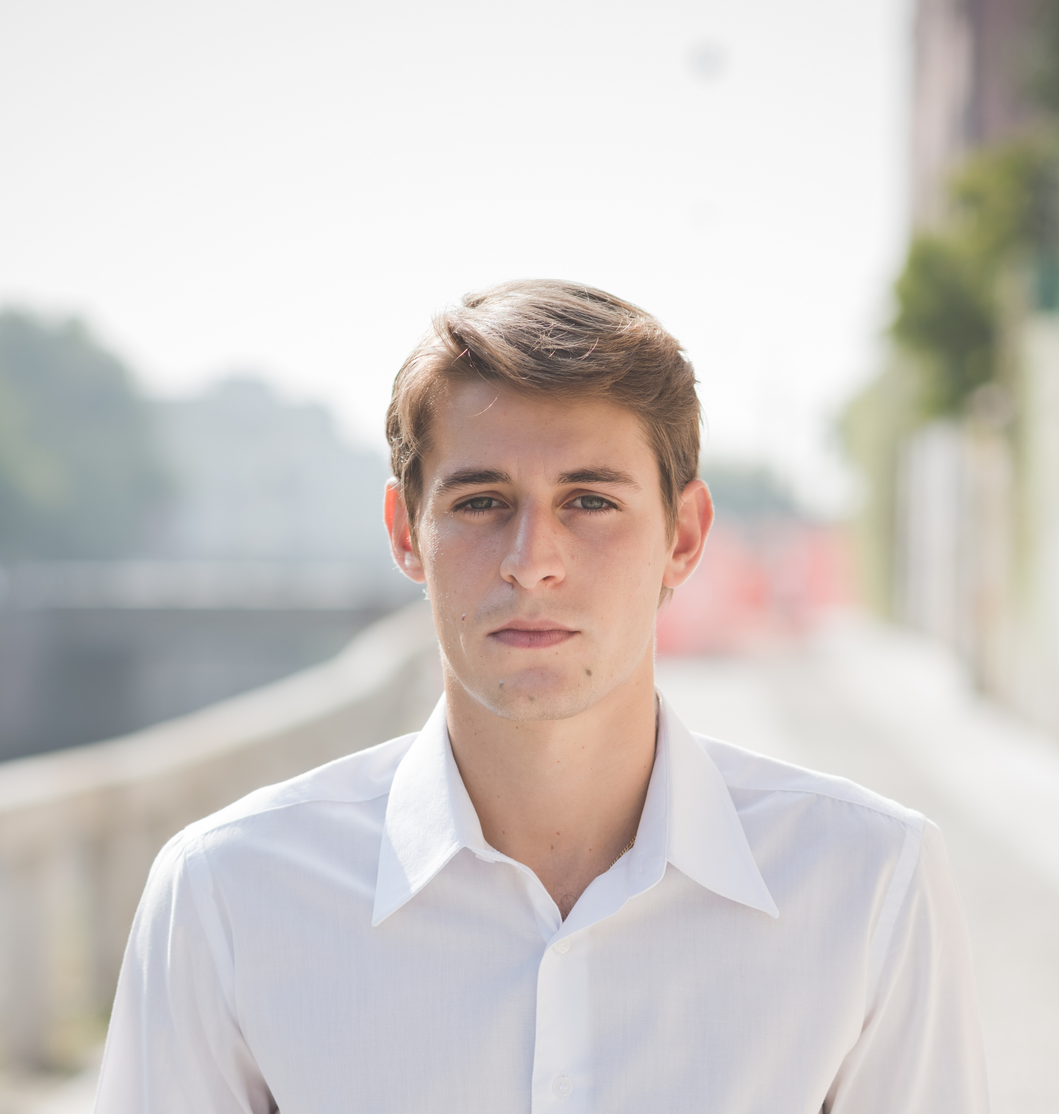
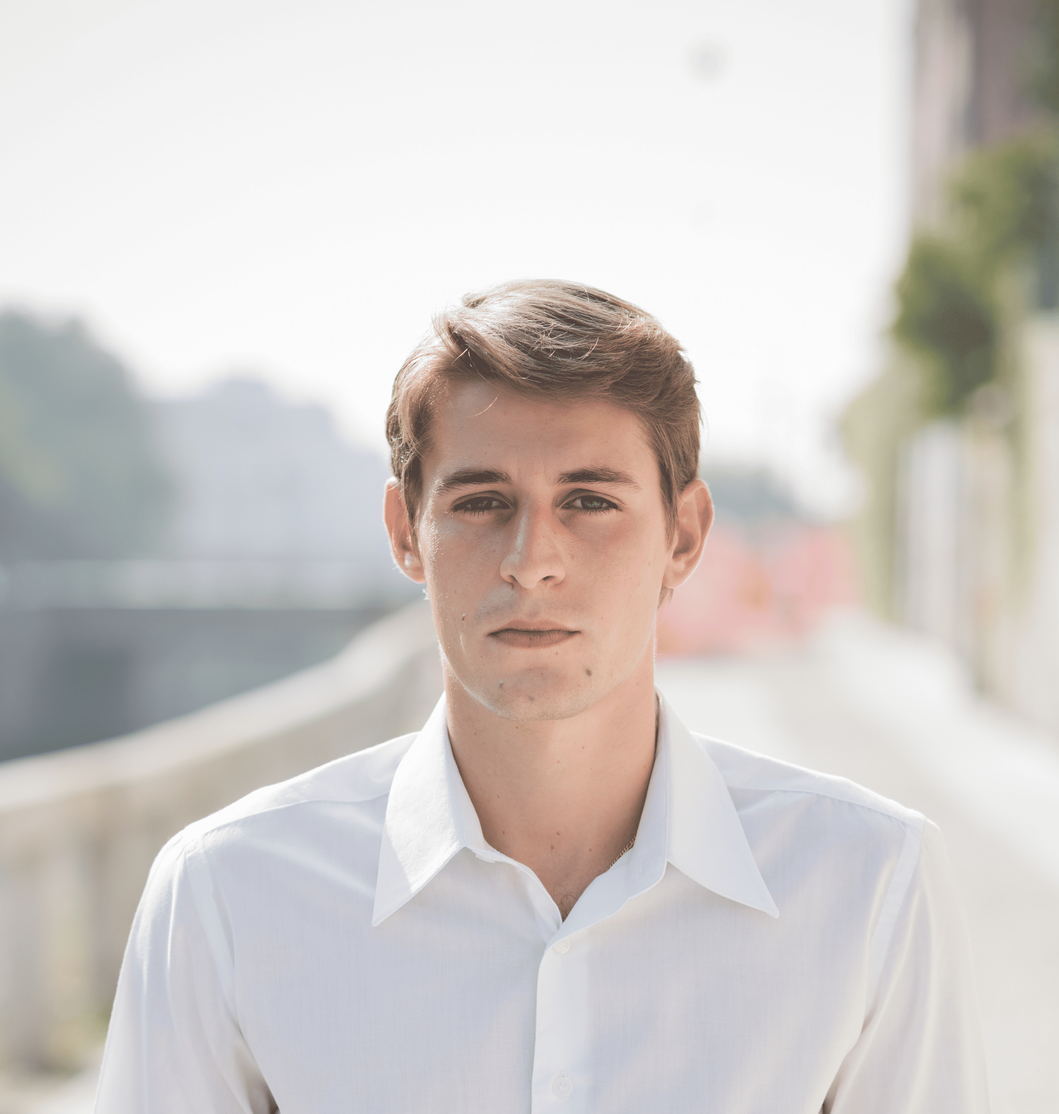
smaller pics

diff --git a/legal_notice.html b/legal_notice.html
@@ -92,7 +92,7 @@
                 <h4 class="different_font_size_h4" data-i18n="imprint">Information pursuant to Section 5 DDG</h4>
                 <p class="bold_violet_text" data-i18n="responsable_person">Responsible Person</p>
                 <ul>
-                    <li>Johanna Meier</li>
+                    <li>Johanna Flock</li>
                     <li>Baumstraße 25</li>
                     <li>86163 Augsburg</li>
                 </ul>
